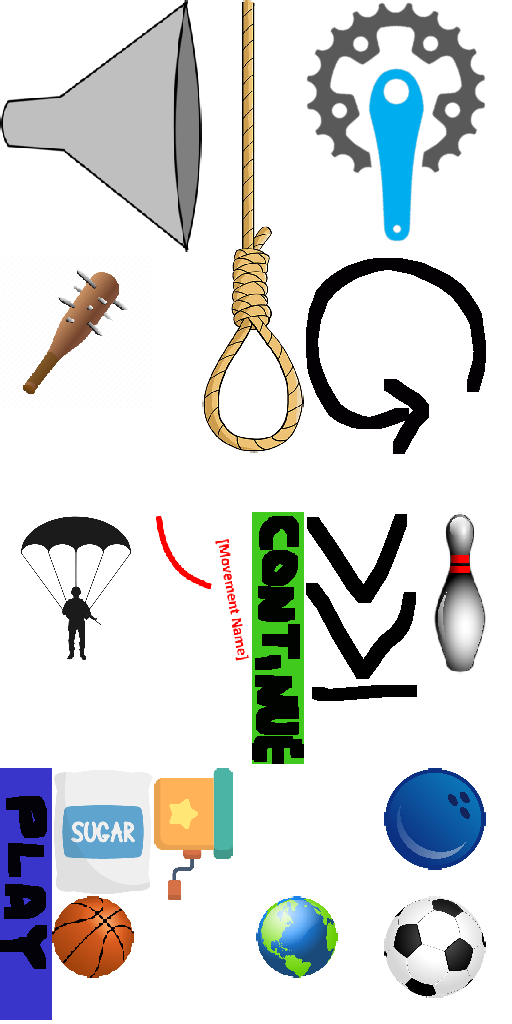
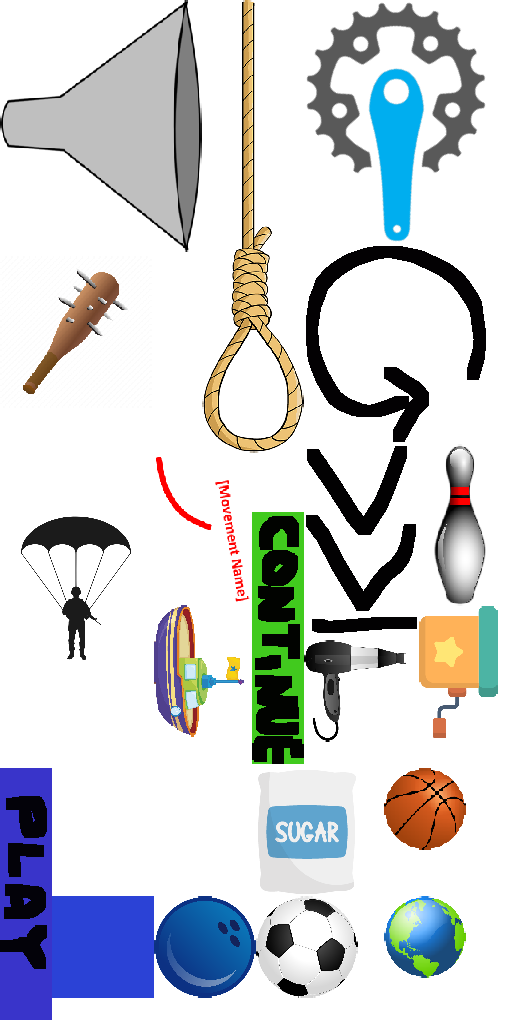
ToyBoat

diff --git a/scripts/c3runtime.js b/scripts/c3runtime.js
@@ -4793,10 +4793,10 @@ self.C3_GetObjectRefTable = function () {
 		C3.Behaviors.Bullet.Acts.SetAngleOfMotion,
 		C3.Behaviors.Sin.Acts.SetEnabled,
 		C3.Plugins.Sprite.Cnds.OnCollision,
-		C3.Plugins.System.Cnds.TriggerOnce,
 		C3.Behaviors.Physics.Acts.EnableCollisions,
 		C3.Plugins.Sprite.Cnds.IsOutsideLayout,
 		C3.Plugins.Sprite.Acts.Destroy,
+		C3.Plugins.System.Cnds.TriggerOnce,
 		C3.Plugins.TiledBg.Acts.SetInstanceVar,
 		C3.Plugins.TiledBg.Exps.Angle,
 		C3.Plugins.System.Exps.layoutname,
@@ -4808,7 +4808,7 @@ self.C3_GetObjectRefTable = function () {
 		C3.Plugins.TiledBg.Cnds.CompareX,
 		C3.Plugins.TiledBg.Acts.SetX,
 		C3.Plugins.Sprite.Acts.SetInstanceVar,
-		C3.Plugins.Sprite.Cnds.CompareInstanceVar,
+		C3.Plugins.TiledBg.Exps.UID,
 		C3.Plugins.Audio.Acts.Play,
 		C3.Plugins.Sprite.Cnds.IsOverlappingOffset,
 		C3.Behaviors.Physics.Exps.VelocityX,
@@ -4816,18 +4816,23 @@ self.C3_GetObjectRefTable = function () {
 		C3.Plugins.Audio.Acts.Stop,
 		C3.Plugins.Audio.Acts.SetVolume,
 		C3.Plugins.Sprite.Acts.SetBoolInstanceVar,
-		C3.Behaviors.Physics.Acts.SetFriction,
-		C3.Plugins.Sprite.Cnds.CompareX,
-		C3.Plugins.Sprite.Acts.SetX,
-		C3.Behaviors.Physics.Acts.ApplyImpulseAtAngle,
 		C3.Plugins.Sprite.Cnds.CompareY,
 		C3.Behaviors.DragnDrop.Cnds.IsDragging,
 		C3.Plugins.System.Exps.dt,
+		C3.Behaviors.Physics.Acts.ApplyForceAtAngle,
 		C3.Plugins.Sprite.Acts.SetTowardPosition,
+		C3.Plugins.Sprite.Cnds.CompareInstanceVar,
 		C3.Plugins.Sprite.Exps.Angle,
 		C3.Plugins.System.Cnds.Every,
 		C3.Plugins.Sprite.Acts.SetAngle,
-		C3.Behaviors.Physics.Acts.ApplyForceAtAngle,
+		C3.Plugins.Sprite.Cnds.CompareX,
+		C3.Plugins.Sprite.Acts.SetX,
+		C3.Behaviors.Physics.Acts.ApplyImpulseAtAngle,
+		C3.Behaviors.Physics.Acts.SetFriction,
+		C3.Plugins.Sprite.Acts.SubInstanceVar,
+		C3.Plugins.Sprite.Acts.SetScale,
+		C3.Behaviors.Physics.Exps.Friction,
+		C3.Plugins.Sprite.Acts.AddInstanceVar,
 		C3.Behaviors.Physics.Exps.VelocityY,
 		C3.Plugins.Sprite.Exps.LayerName,
 		C3.Plugins.Sprite.Exps.Width,
@@ -4857,30 +4862,37 @@ self.C3_JsPropNameTable = [
 	{Background2: 0},
 	{Background3: 0},
 	{Background4: 0},
-	{RoomFloor: 0},
-	{WoodPiece: 0},
-	{Pine: 0},
 	{Basquet: 0},
-	{Rotate_Piece: 0},
-	{WoodenBoard: 0},
 	{lastAngle: 0},
 	{Crank: 0},
+	{WoodenBoard: 0},
 	{world: 0},
-	{Hamster: 0},
-	{Wood_Platform: 0},
-	{Sine: 0},
-	{Wood_MovingPlatform: 0},
-	{currentAngle: 0},
-	{newAngle: 0},
-	{TopRightX: 0},
-	{TopLeftX: 0},
-	{Wood_RotationPlatform: 0},
-	{Goal: 0},
-	{Wood_WNail: 0},
-	{JokeBox: 0},
 	{Funnel: 0},
 	{Funnel2: 0},
+	{TopRightX: 0},
+	{TopLeftX: 0},
+	{JokeBox: 0},
+	{Wood_WNail: 0},
+	{Goal: 0},
+	{Hamster: 0},
+	{Pine: 0},
 	{Room_Floor: 0},
+	{Sine: 0},
+	{Wood_MovingPlatform: 0},
+	{Wood_Platform: 0},
+	{currentAngle: 0},
+	{newAngle: 0},
+	{Wood_RotationPlatform: 0},
+	{isSliding: 0},
+	{ToyBoat: 0},
+	{newScale: 0},
+	{IceCube: 0},
+	{HokeyStick: 0},
+	{StickPivot: 0},
+	{WallNail: 0},
+	{CurrentAngle: 0},
+	{NewAngle: 0},
+	{HairDryer: 0},
 	{MovementSign: 0},
 	{Football: 0},
 	{SugarPack: 0},
@@ -4904,7 +4916,6 @@ self.C3_JsPropNameTable = [
 	{Physics2: 0},
 	{RopeParts: 0},
 	{Elements: 0},
-	{RollingPlatforms_BowlingBall: 0},
 	{SpinningObjects: 0},
 	{WoodPlatforms: 0},
 	{numberOfLinks: 0},
@@ -5041,9 +5052,7 @@ self.C3_ExpressionFuncs = [
 		() => "ParatrooperSoldier Start",
 		() => 90,
 		() => "Floor collition",
-		() => "Release Elements",
 		() => "Bowling Start",
-		() => "Release Ball",
 		() => "Destroy Bowling elements",
 		() => "Activate Ball",
 		() => "Loosing Game  - Basquet",
@@ -5062,7 +5071,7 @@ self.C3_ExpressionFuncs = [
 			const f0 = p._GetNode(0).GetBoundMethod();
 			const n1 = p._GetNode(1);
 			const n2 = p._GetNode(2);
-			return () => f0(n1.ExpObject(), n2.ExpInstVar(), 0.05);
+			return () => f0(n1.ExpObject(), n2.ExpInstVar(), 0.08);
 		},
 		() => "Drag and Drop rotating platform",
 		() => "BowlingBall START",
@@ -5081,15 +5090,7 @@ self.C3_ExpressionFuncs = [
 			return () => ((-30) + (n0.ExpBehavior() / 5.33));
 		},
 		() => "strike",
-		() => "Activate Ball2",
-		() => 0.5,
-		() => "Loosing Game  - Soccer",
-		() => "Start Golf Game",
-		() => "Activate Ball3",
-		() => "Joke Box movement",
-		() => "Golf Ball Jokebox jumping",
-		() => 7,
-		() => 100,
+		() => "Release Bowling Ball",
 		() => "SwitchRope Start",
 		() => "Activate Switch",
 		() => "Rope movement",
@@ -5108,16 +5109,52 @@ self.C3_ExpressionFuncs = [
 			const n1 = p._GetNode(1);
 			return () => (n0.ExpInstVar() + n1.ExpInstVar());
 		},
+		() => "Hamster Behavior",
+		() => 8.5,
+		() => 180,
+		() => "Stage Bowling2 Win",
 		() => "Rotate Crank",
 		() => 0.1,
 		p => {
 			const n0 = p._GetNode(0);
 			return () => (n0.ExpObject() - 5);
 		},
-		() => "Hamster Behavior",
-		() => 8.5,
-		() => 180,
-		() => "Stage Bowling2 Win",
+		p => {
+			const f0 = p._GetNode(0).GetBoundMethod();
+			const n1 = p._GetNode(1);
+			const n2 = p._GetNode(2);
+			return () => f0(n1.ExpObject(), n2.ExpInstVar(), 0.05);
+		},
+		() => "Release Elements",
+		() => "Start Golf Game",
+		() => "Activate Ball3",
+		() => "Joke Box movement",
+		() => "Golf Ball Jokebox jumping",
+		() => 7,
+		() => 100,
+		() => "Activate Ball2",
+		() => 0.5,
+		() => "Loosing Game  - Soccer",
+		() => "Release Elements2",
+		() => "Stop Boat",
+		() => 0.25,
+		() => "Friction Managing",
+		p => {
+			const f0 = p._GetNode(0).GetBoundMethod();
+			return () => (0.25 * f0());
+		},
+		() => 0.05,
+		p => {
+			const n0 = p._GetNode(0);
+			const f1 = p._GetNode(1).GetBoundMethod();
+			return () => (n0.ExpBehavior() - (2 * f1()));
+		},
+		p => {
+			const n0 = p._GetNode(0);
+			return () => n0.ExpBehavior();
+		},
+		() => "Hair Dryer Rotation",
+		() => 45,
 		() => "Rotation objects",
 		() => "Spinning Objects",
 		() => 15,
@@ -5136,6 +5173,7 @@ self.C3_ExpressionFuncs = [
 		() => "IntroTutorial",
 		() => "Bowling",
 		() => "Sun",
+		() => "ToyBoat",
 		() => "Bowling ball velocity",
 		p => {
 			const n0 = p._GetNode(0);
